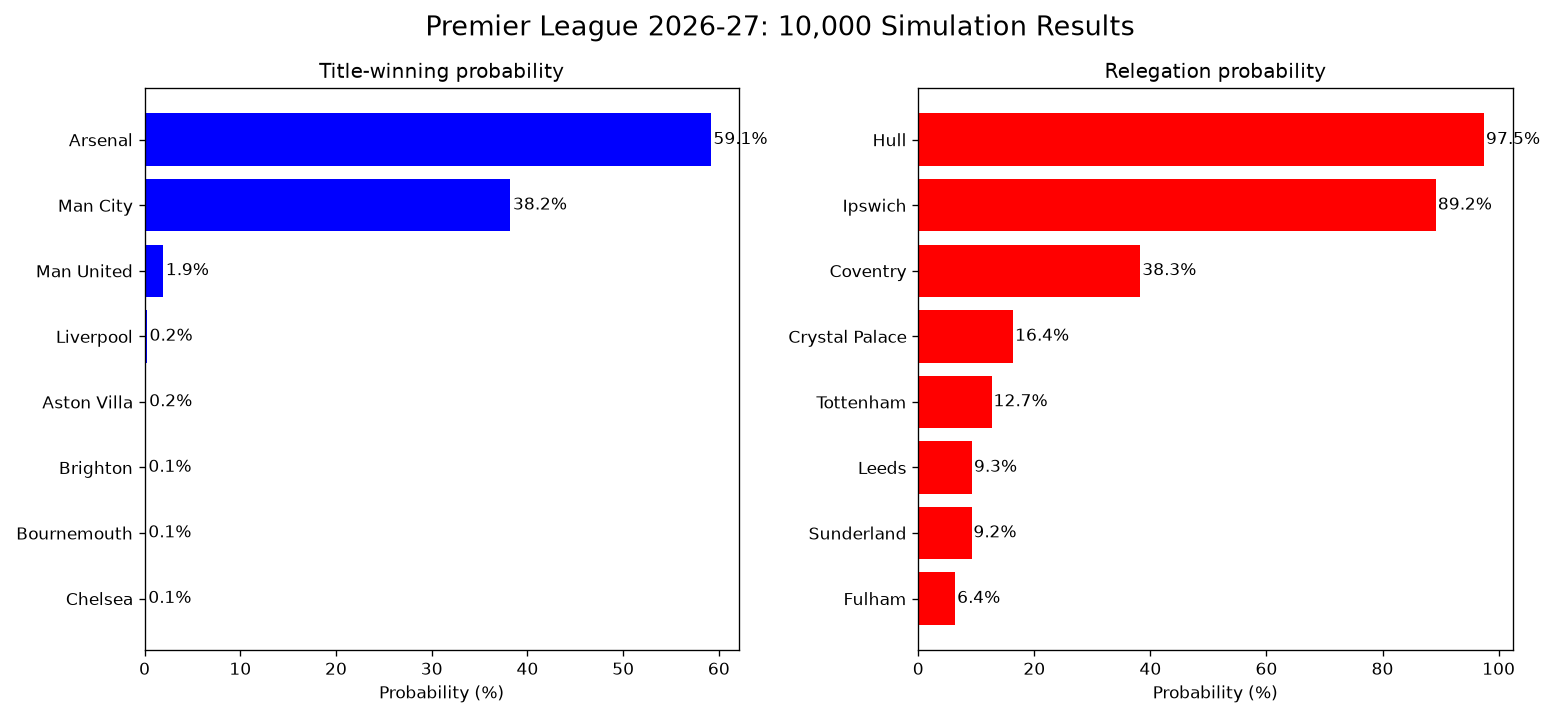
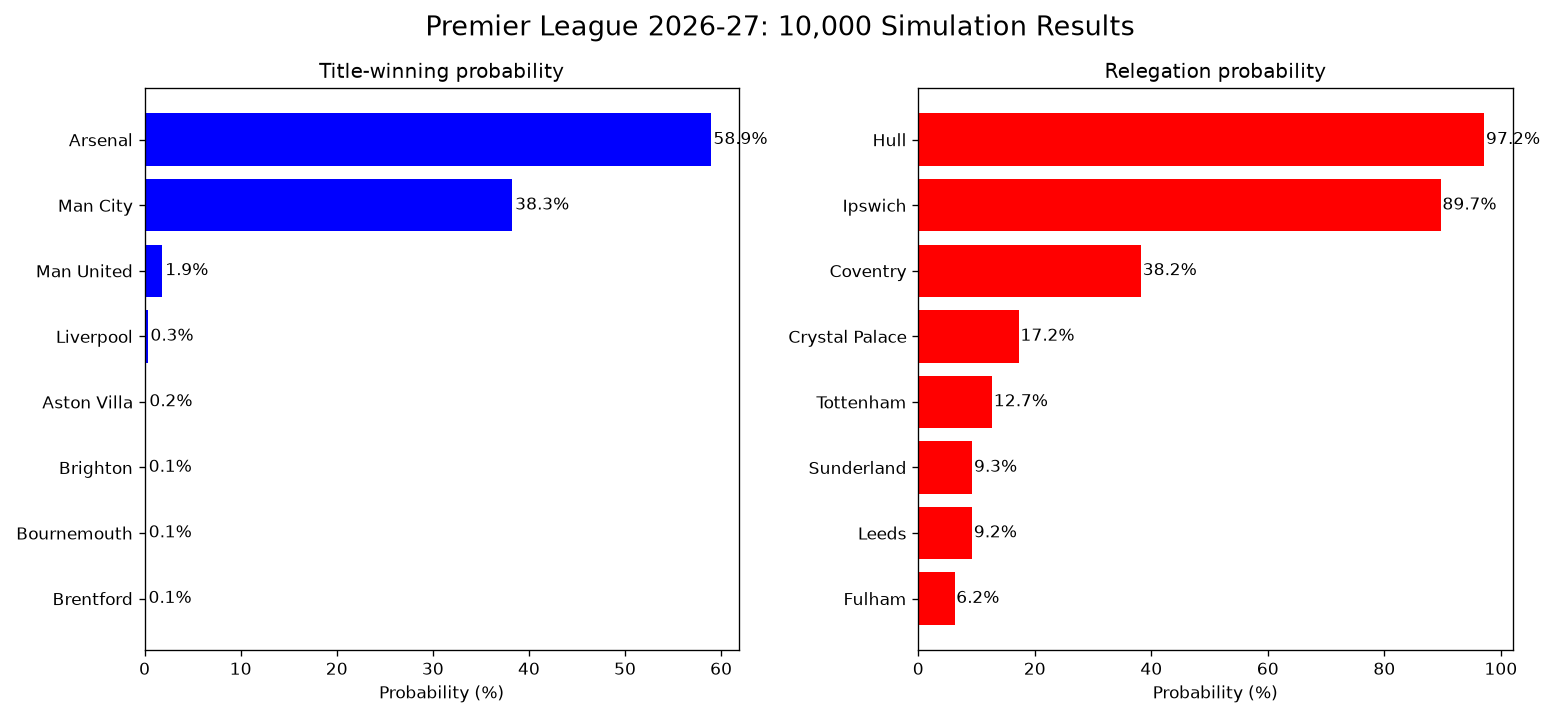
Backtest vs bookmaker odds (in sample and out of sample), README, cleanup

diff --git a/simulator.py b/simulator.py
@@ -5,28 +5,14 @@ import matplotlib.pyplot as plt
 from math import exp, factorial, log
 from collections import defaultdict
 
-teams = {
-    "Man City": 2.1,
-    "Arsenal": 2.1,
-    "Liverpool": 2.0,
-    "Chelsea": 1.9,
-    "Newcastle": 1.8,
-    "Man United": 1.7,
-    "Tottenham": 1.7,
-    "Aston Villa": 1.7,
-    "Brighton": 1.6,
-    "Nottingham Forest": 1.5,
-    "Bournemouth": 1.5,
-    "Crystal Palace": 1.5,
-    "Brentford": 1.5,
-    "Fulham": 1.4,
-    "Everton": 1.3,
-    "Leeds": 1.2,
-    "Sunderland": 1.2,
-    "Coventry": 1.1,
-    "Ipswich": 1.1,
-    "Hull": 1.0,
-}
+np.random.seed(42)   # same random numbers every run, so results are reproducible
+
+teams = [
+    "Man City", "Arsenal", "Liverpool", "Chelsea", "Newcastle",
+    "Man United", "Tottenham", "Aston Villa", "Brighton", "Nottingham Forest",
+    "Bournemouth", "Crystal Palace", "Brentford", "Fulham", "Everton",
+    "Leeds", "Sunderland", "Coventry", "Ipswich", "Hull",
+]
 
 NAME_FIXES = {"Nott'm Forest": "Nottingham Forest"}
 
@@ -117,7 +103,7 @@ def logloss(pred, actual_idx):
     return -log(max(pred[actual_idx], 1e-15))    # clip so we never take log(0)
 
 def backtest(test_matches, label):
-    # Use the sharpest odds available in this file
+    # Use the bookmaker average, so both seasons are compared against the same market
     odds_sets = [("AvgH", "AvgD", "AvgA"),       # market average (used for both seasons)
                  ("B365H", "B365D", "B365A")]    # Bet365 as a fallback
     cols = next((c for c in odds_sets if set(c).issubset(test_matches.columns)), None)
@@ -254,7 +240,7 @@ def run_monte_carlo(n_seasons=10000):
         "Avg Pts": total_points[t] / n_seasons,
     } for t in teams]
 
-    df = pd.DataFrame(rows).sort_values("Title %", ascending=False).reset_index(drop=True)
+    df = pd.DataFrame(rows).sort_values("Avg Pts", ascending=False).reset_index(drop=True)
     df.index = df.index + 1
     print("\n" + df.round(1).to_string())
     return df
@@ -310,8 +296,8 @@ def diagnostics(n_seasons=10000):
     print(f"Champion points:   {champ_points / n_seasons:.1f}    (real ≈ 88)")
     print(f"Last-place points: {last_points / n_seasons:.1f}    (real ≈ 22)")
 
-#results = run_monte_carlo(10000)
-#plot_results(results)
-
 backtest(matches, "2025/26 (in-sample)")
 backtest(matches_2627, "2026/27 so far (out-of-sample)")
+
+results = run_monte_carlo(10000)
+plot_results(results)

diff --git a/README.md b/README.md
@@ -1,0 +1,111 @@
+# Premier League 2026/27 Season Simulator
+
+A Poisson match model and Monte Carlo season simulator for the 2026/27 Premier League, benchmarked against bookmaker odds on matches it had never seen.
+
+![Title and relegation probabilities from 10,000 simulated seasons](results.png)
+
+## What it does
+
+1. **Rates every team** from real 2025/26 results: an attack rating (goals scored relative to the league average) and a defense rating (goals conceded relative to the league average).
+2. **Models a single match** as two independent Poisson distributions, one for each team's goals.
+3. **Simulates the full 380-match 2026/27 season** 10,000 times and records where each team finishes, giving title, top-four and relegation probabilities.
+4. **Backtests the match forecasts** against bookmaker odds, both on the season the ratings were fitted to (in-sample) and on 2026/27 matches the model had never seen (out-of-sample).
+
+## Results
+
+### Forecast accuracy vs the betting market
+
+Each match is turned into home/draw/away probabilities by three forecasters:
+
+- **Model**: this project's Poisson model.
+- **Market**: bookmaker average odds, converted to probabilities with the bookmaker margin (overround) removed.
+- **Baseline**: always predicts last season's overall home/draw/away split, ignoring which teams are playing.
+
+They are scored with log-loss and Brier score (summed over the three outcomes). Lower is better for both. For reference, guessing 1/3 for every outcome gives a log-loss of 1.0986.
+
+| Test set | Matches | Model | Market | Baseline | Model − Market (95% CI) |
+|---|---|---|---|---|---|
+| 2025/26, in-sample | 380 | 0.990 | 1.015 | 1.079 | −0.026 ± 0.020 |
+| 2026/27 so far, out-of-sample | 50 | 1.053 | 1.052 | 1.107 | +0.001 ± 0.043 |
+
+*Log-loss per match. The confidence interval comes from a paired comparison of per-match log-loss.*
+
+**Reading the results:**
+
+- **In-sample**, the model beats the market by a statistically clear margin. This is not evidence that the model is better than bookmakers: its ratings were fitted to these same results, while the market had to price each match before it was played.
+- **Out-of-sample**, on the first 50 matches of 2026/27, the model and the market are statistically indistinguishable. Both clearly beat the naive baseline.
+- The model's in-sample edge **does not carry over** to new data, which is why the out-of-sample test is the one that matters. With only 50 matches, and a different season, the drop cannot be attributed to overfitting alone.
+
+### Season forecast
+
+The chart above shows the share of 10,000 simulated seasons in which each team won the title or was relegated. These probabilities are more extreme than a well-calibrated forecast would give (see Limitations).
+
+## How the model works
+
+**Team ratings.** For each team, using 2025/26 results:
+
+```
+attack  = (goals scored per game)   / (league average goals per team per game)
+defense = (goals conceded per game) / (league average goals per team per game)
+```
+
+An attack of 1.3 means scoring 30% more than an average team. A defense below 1.0 means conceding less than average.
+
+**Promoted teams.** Coventry, Ipswich and Hull have no Premier League data from 2025/26. Each one inherits the ratings of a relegated club: the promoted teams are ranked by their Championship finish, the relegated teams (West Ham, Burnley, Wolves) by their Premier League ratings, and they are paired strongest to strongest.
+
+**Expected goals for a match:**
+
+```
+home_xG = home_attack × away_defense × league_average × √HOME_ADV
+away_xG = away_attack × home_defense × league_average / √HOME_ADV
+```
+
+`HOME_ADV = 1.21` is split symmetrically between the two sides, so it changes the balance between home and away without inflating the total number of goals.
+
+**Match probabilities.** Each team's goals follow a Poisson distribution with its expected goals. Multiplying the two distributions gives the probability of every exact scoreline up to 10–10. Summing the cells below, on and above the diagonal gives P(home win), P(draw) and P(away win).
+
+**Season simulation.** Every one of the 380 fixtures is played by sampling goals from those Poisson distributions. The table is sorted by points, then goal difference, then goals scored. Repeating this 10,000 times turns single outcomes into probabilities.
+
+**Sanity checks.** Over 10,000 simulated seasons, the model reproduces realistic league-wide numbers: home-win rate, champion's points total and last-place points total all land close to typical Premier League values.
+
+## Data
+
+Match results and odds are from [Football-Data.co.uk](https://www.football-data.co.uk/englandm.php):
+
+- `E0.csv`: 2025/26 Premier League, full season (training data).
+- `E0_2627.csv`: 2026/27 Premier League, first 50 matches, downloaded 28 September 2026 (test data).
+
+To refresh the 2026/27 file as the season goes on:
+
+```bash
+curl -L -A "Mozilla/5.0" -o E0_2627.csv "https://www.football-data.co.uk/mmz4281/2627/E0.csv"
+```
+
+## How to run
+
+```bash
+pip3 install -r requirements.txt
+python3 simulator.py
+```
+
+This prints the team ratings and both backtest tables, then runs the 10,000-season simulation and saves the chart as `results.png`. The random seed is fixed, so every run gives the same numbers.
+
+## Limitations
+
+- **Ratings come from a single season and are frozen.** The model cannot see summer transfers, managerial changes, injuries or in-season form. Everything it knows about team strength is how teams performed in 2025/26.
+- **Promoted teams are a rough proxy.** Borrowing relegated clubs' ratings is data-based but crude, and it is the main reason the relegation probabilities are so extreme.
+- **Probabilities are overconfident at the extremes.** Ratings are treated as exact, with no uncertainty, so strong favourites and weak teams get probabilities closer to 0% or 100% than they should.
+- **Independent Poisson goals slightly underrate draws.** This is a known weakness of the basic model, visible here as a simulated draw rate a few points below the real one.
+- **The out-of-sample test is small.** 50 matches is enough to show the model is competitive, but not enough to rank it against the market.
+
+## Future work
+
+- **Forecast from the current table:** start each simulation from the real 2026/27 points so far and simulate only the remaining fixtures.
+- **Walk-forward rating updates:** update ratings as 2026/27 results arrive, predicting each round using only earlier rounds.
+- **Multi-season ratings with shrinkage:** fit ratings over several seasons and pull them towards the league average, reducing overconfidence.
+- **Calibration plot:** check whether events the model gives 60% actually happen about 60% of the time.
+- **Dixon–Coles adjustment:** correct the low-scoring draw probabilities of the independent Poisson model.
+
+## Tech
+
+Python, pandas, NumPy, matplotlib.
